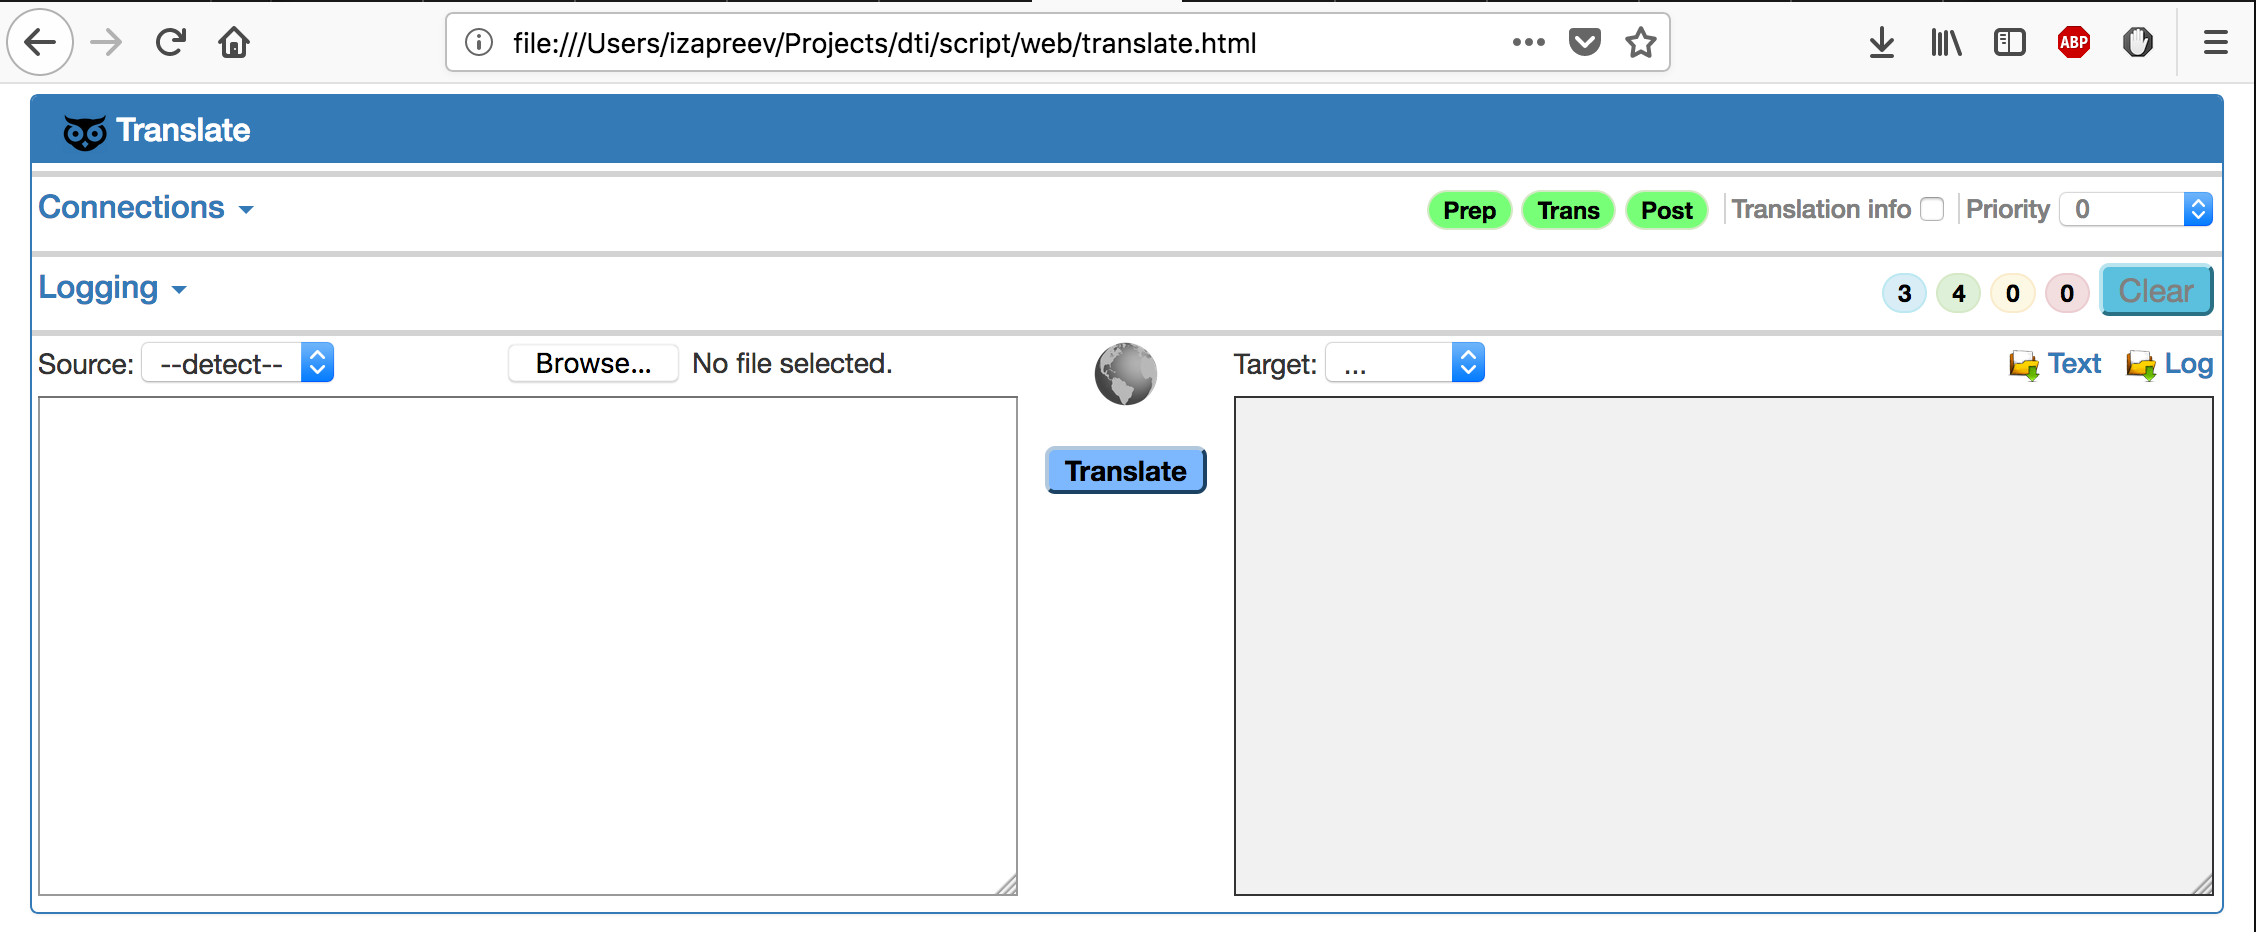
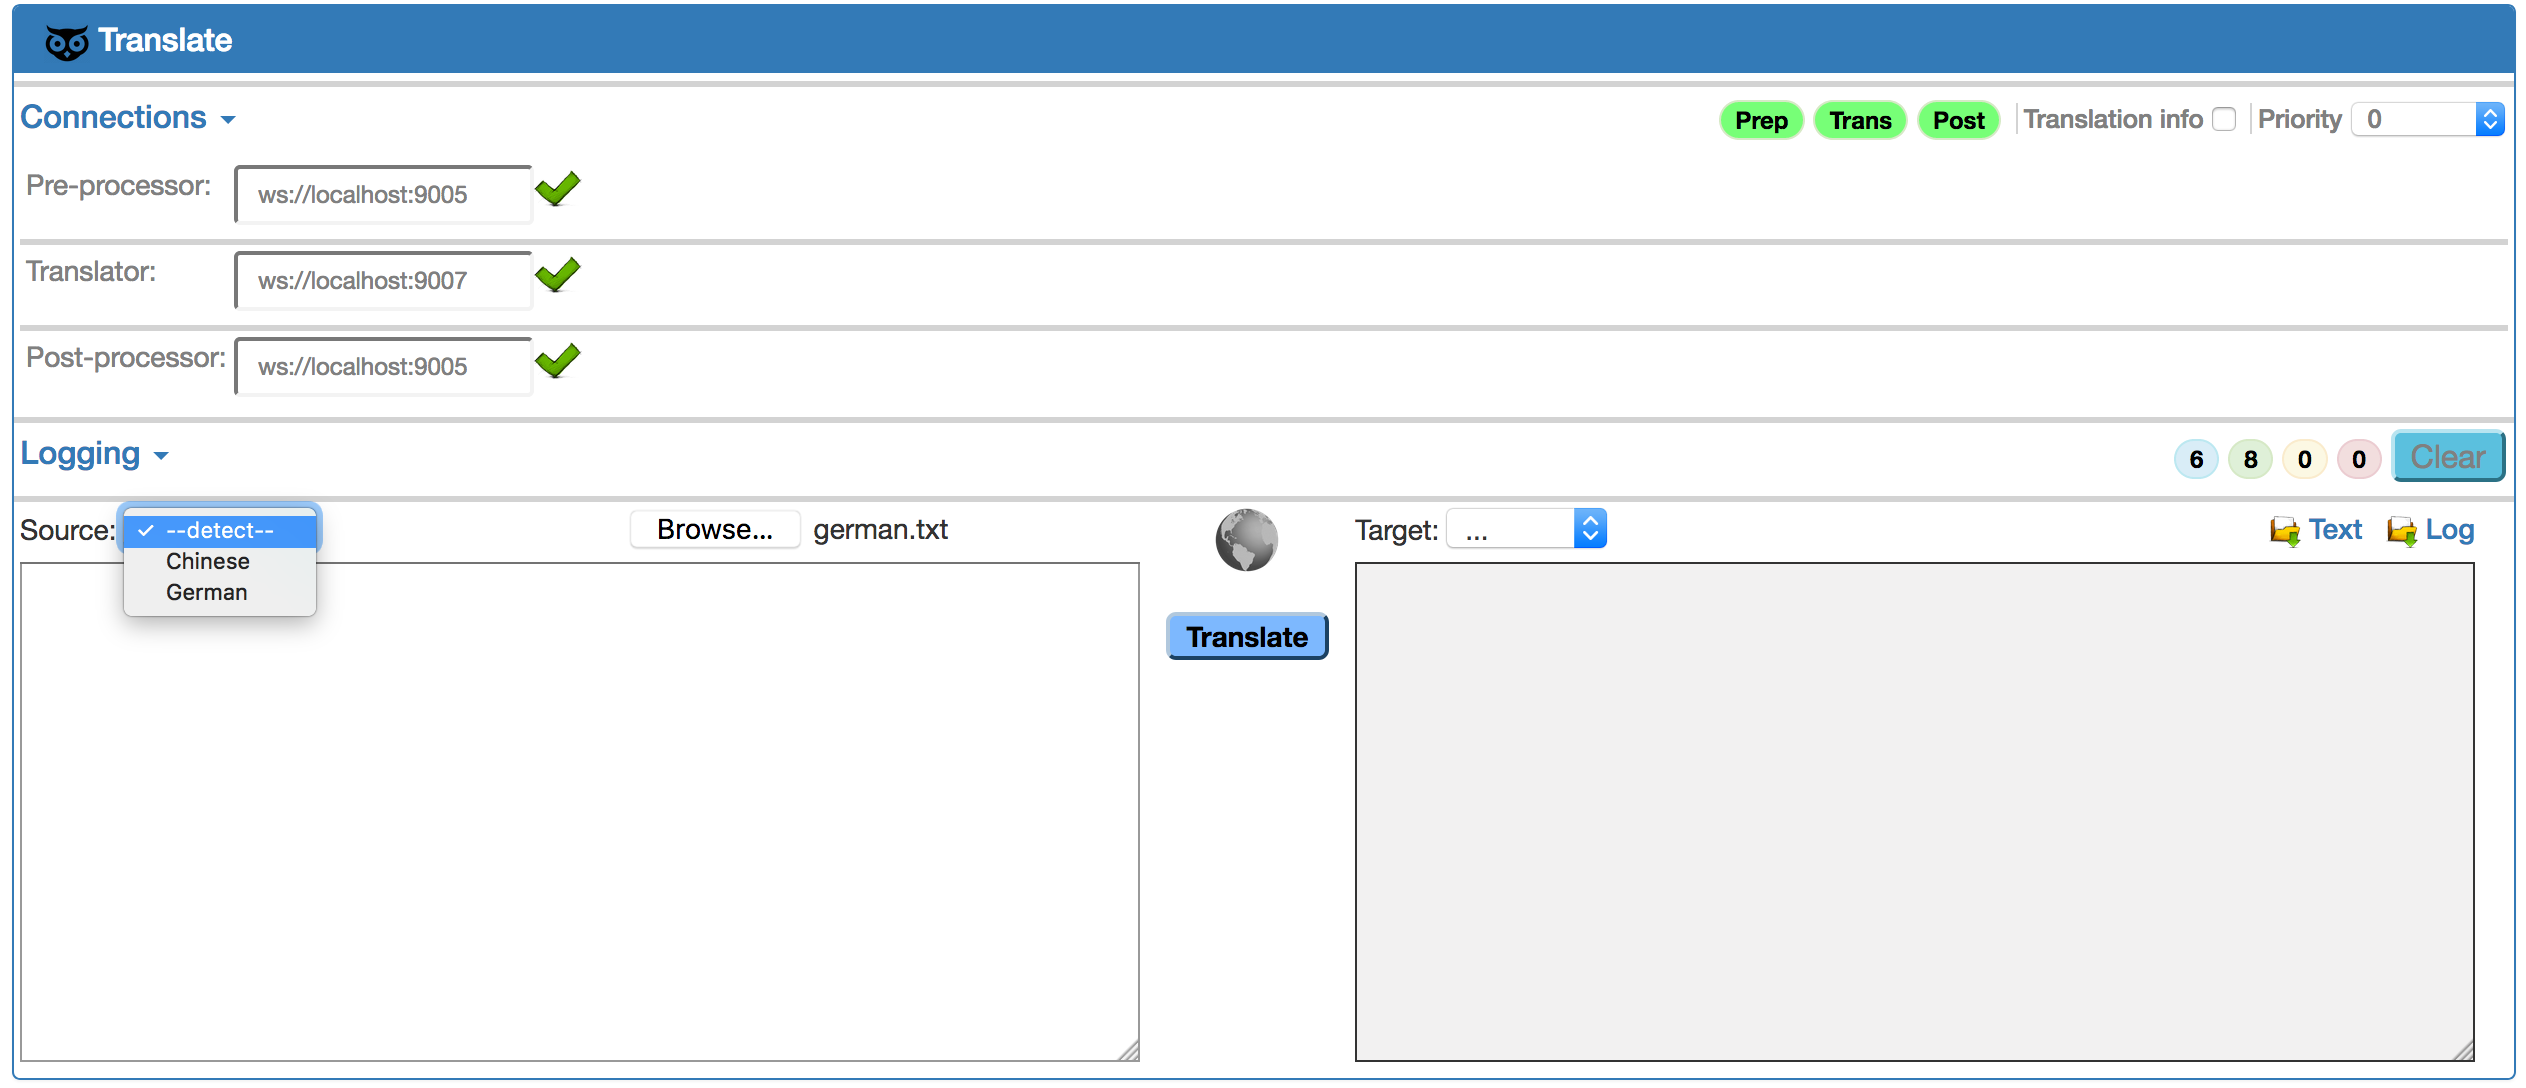
Finishing the initial documentation version of the TLS and no-TLS demos

Changed region(s): [[0.0, 0.0, 1.0, 1.0], [0.4344, 0.5601, 0.5275, 0.6223]]

diff --git a/demo/tls/README.md b/demo/tls/README.md
@@ -16,6 +16,7 @@ Relative to the [Distributed Translation Infrastructure](https://github.com/ivan
 
 ```
 $ tree .
+.
 ├── README.md
 ├── certificates
 │   ├── ca2048.crt
@@ -37,10 +38,19 @@ $ tree .
 │   ├── server-no-tls.cfg
 │   └── server-tls.cfg
 ├── imgs
-│   ├── browser_connected.png
-│   ├── browser_exceptions.png
+│   ├── browser_connected_01.png
+│   ├── browser_connected_02.png
+│   ├── browser_connected_03.png
+│   ├── browser_connected_04.png
+│   ├── browser_connected_05.png
+│   ├── browser_connected_06.png
+│   ├── browser_exception_01.png
+│   ├── browser_exception_02.png
+│   ├── browser_exception_03.png
+│   ├── browser_exception_04.png
 │   ├── browser_initial.png
-│   └── browser_resulting.png
+│   ├── browser_resulting_ch.png
+│   └── browser_resulting_de.png
 ├── models
 │   ├── chinese.english.head.10.rm.zip
 │   ├── chinese.english.head.10.tm.zip
@@ -75,7 +85,7 @@ In order to run this demo one requires [OpenSSL](https://www.openssl.org/) insta
 
 All the servers are run on localhost but use different ports. The following deployment is ensured by the corresponding configuration files:
 
-- **ws://localhost:9001** - `bpbd-server -c ./configs/server-tls.cfg` translating *Chinese* to * English*;
+- **wws://localhost:9001** - `bpbd-server -c ./configs/server-tls.cfg` translating *Chinese* to *English*;
 - **ws://localhost:9002** - `bpbd-server -c ./configs/server-no-tls.cfg` translating *German* to *English*;
 - **wws://localhost:9003** - `bpbd-processor -c./configs/processor-tls.cfg` performs both *pre-* and *post-* processing;
 - **ws://localhost:9004** - `bpbd-processor -c./configs/processor-no-tls.cfg` performs both *pre-* and *post-* processing;
@@ -123,6 +133,8 @@ INFO: Please press enter to STOP the servers and finish...
 After these steps are done the console and web clients may be run. The exact steps for doing these are given in the subsections below. To terminate the servers infrastructure and finish the demo:
 
 * Return to the terminal running the `./start.sh` script and press **Enter**;
+
+The next subsections assume the servers infrastructure running.
 
 ### Running Console client
 
@@ -175,27 +187,69 @@ Note that the balancing server, running on port *9005*, can only be reached via 
 
 ### Running Web client
 
-**ToDo:** Re-write this section.
+In order to run the Web-client demo the following steps are to be taken:
 
-* Open the `<DTI_HOME>/script/web/translate.html` document in one of the web-browsers: 
+* Make sure to add security exceptions for the TLS servers. This is requires as the TLS servers use self-signed certificates. The exceptions are to be added for:
+   * `https://localhost:9001` - the TLS translation server
+   * `https://localhost:9003` - the TLS pre/post processor
+   * `https://localhost:9005` - the TLS load balancer
+* Let us use `https://localhost:9001` as an example but make sure you do the same for the other two servers as well!
+* The example of adding security exception is done in Firefox, but doing this in Internet Explorer, Safari, Chrome or Opera requires a similar process.
+* Open your favorite web-browser and navigate to `https://localhost:9001`. The initial page you should get, if the server is fully started, is:
+
+![Adding security exception, step 1](./imgs/browser_exception_01.png "Adding security exception, step 1")
+
+* Click on the **Advanced** button to get to see the **Add Exceptions** button:
+
+![Adding security exception, step 2](./imgs/browser_exception_02.png "Adding security exception, step 2")
+
+* Click on the **Add Exceptions** button to see the exception-adding dialog:
+
+![Adding security exception, step 3](./imgs/browser_exception_03.png "Adding security exception, step 3")
+
+* Make sure that the **Permanently store this exception** check box is selected and click on the **Confirm Security Exception** button, to get to see:
+
+![Adding security exception, step 4](./imgs/browser_exception_04.png "Adding security exception, step 4")
+
+* After all three security exceptions are added, open the `<DTI_HOME>/script/web/translate.html` document in the web-browsers:
 
 ![The initial browser state](./imgs/browser_initial.png "The initial browser state")
 
-* Note that the **Pre**, **Trans**, and **Post** connection indicators are all red, meaning the servers are not running;
-* Open the Linux terminal and change directory to the `<DTI_HOME>/demo/tls/` folder;
+* Note that the server configuration will most likely be as in the figure above and the **Pre**, **Trans**, and **Post** connection indicators will all  be red, meaning the servers are not connected;
+* Change the server configuration to the one depicted in the next figure. Here, we use TLS *pre* and *post* processor servers as well as the TLS load balancer, aggregating two different source language translation servers:
 
-* Keep refreshing the `<DTI_HOME>/script/web/translate.html` page in the browser, until it is in the following state:
+![The connected browser state](./imgs/browser_connected_01.png "The connected browser state")
 
-![The connected browser state](./imgs/browser_connected.png "The connected browser state")
-
-* Please note that here:
-    * Getting this state shall not take longer than several minutes;
-    * The **Pre**, **Trans**, and **Post** connection indicators will become green;
-    * The **Source** language will be set to `--detect--`;
-* Copy the content of the `<DTI_HOME>/demo/tls/test/chinese.txt` file into the **Source** text box of the `<DTI_HOME>/script/web/translate.html` document inside the browser;
-* Select the **Source** language to be *Chinese* and click the **Translate** button;
+* To ensure that this configuration works:
+    * Load `<DTI_HOME>/demo/no-tls/test/chinese.txt` as the **Source** text;
+    * Select the **Source** language to be *Chinese* and click the **Translate** button;
 * Wait until the translation process is finished, the resulting state shall be as follows:
 
-![The resulting browser state](./imgs/browser_resulting.png "The resulting browser state")
+![The resulting browser state, Chinese](./imgs/browser_resulting_ch.png "The resulting browser state, Chinese")
 
-* You may want compare the translation result to that stored in  `<DTI_HOME>/demo/tls/test/english.txt` and obtained using full-scale models;
+* You may want compare the translation result to that stored in `<DTI_HOME>/demo/tls/test/english.txt` and obtained using full-scale models;
+
+* The other server connection configurations you may want to try out to validate that they are all possible and work, are as follows:
+    * TLS *pre*-processor, Non-TLS translation server, TLS *post*-processor:
+
+![The connected browser state](./imgs/browser_connected_02.png "The connected browser state")
+
+   * TLS *pre*-processor, TLS translation server, TLS *post*-processor:
+
+![The connected browser state](./imgs/browser_connected_03.png "The connected browser state")
+
+   * Non-TLS *pre*-processor, TLS translation server, TLS *post*-processor:
+
+![The connected browser state](./imgs/browser_connected_04.png "The connected browser state")
+
+   * Non-TLS *pre*-processor, TLS translation server, Non-TLS *post*-processor:
+
+![The connected browser state](./imgs/browser_connected_05.png "The connected browser state")
+
+   * Non-TLS *pre*-processor, Non-TLS translation server, Non-TLS *post*-processor:
+
+![The connected browser state](./imgs/browser_connected_06.png "The connected browser state")
+
+* Please note that *German* to *English* translation of `<DTI_HOME>/demo/tls/test/german.txt`, given that dummy pre and post processing scripts and minimal size models are used, will not actually be able to translate anything:
+
+![The resulting browser state, German](./imgs/browser_resulting_de.png "The resulting browser state, German")

diff --git a/demo/no-tls/README.md b/demo/no-tls/README.md
@@ -28,13 +28,20 @@ $ tree .
 ├── imgs
 │   ├── browser_connected.png
 │   ├── browser_initial.png
-│   └── browser_resulting.png
+│   ├── browser_resulting_ch.png
+│   └── browser_resulting_de.png
 ├── models
+│   ├── chinese.english.head.10.rm
 │   ├── chinese.english.head.10.rm.zip
+│   ├── chinese.english.head.10.tm
 │   ├── chinese.english.head.10.tm.zip
+│   ├── de-en-1-10.000.rm
 │   ├── de-en-1-10.000.rm.zip
+│   ├── de-en-1-10.000.tm
 │   ├── de-en-1-10.000.tm.zip
+│   ├── e_00_1000.lm
 │   ├── e_00_1000.lm.zip
+│   ├── english.bitext.lm
 │   ├── english.bitext.lm.zip.aa
 │   ├── english.bitext.lm.zip.ab
 │   └── english.bitext.lm.zip.ac
@@ -110,12 +117,16 @@ INFO: Please press enter to STOP the servers and finish...
 * Please note that here:
     * Getting this state shall not take longer than several minutes;
     * The **Pre**, **Trans**, and **Post** connection indicators will become green;
-    * The **Source** language will be set to `--detect--`;
-* Copy the content of the `<DTI_HOME>/demo/no-tls/test/chinese.txt` file into the **Source** text box of the `<DTI_HOME>/script/web/translate.html` document inside the browser;
+    * The **Source** language will be set to `--detect--` as there are several source languages available;
+* Load the content of the `<DTI_HOME>/demo/no-tls/test/chinese.txt` file into the **Source** text box of the `<DTI_HOME>/script/web/translate.html` document inside the browser;
 * Select the **Source** language to be *Chinese* and click the **Translate** button;
 * Wait until the translation process is finished, the resulting state shall be as follows:
 
-![The resulting browser state](./imgs/browser_resulting.png "The resulting browser state")
+![The resulting browser state, Chinese](./imgs/browser_resulting_ch.png "The resulting browser state, Chinese")
 
 * You may want compare the translation result to that stored in  `<DTI_HOME>/demo/no-tls/test/english.txt` and obtained using full-scale models;
+* Please note that *German* to *English* translation of `<DTI_HOME>/demo/no-tls/test/german.txt`, given that dummy pre and post processing scripts and minimal size models are used, will not actually be able to translate anything:
+
+![The resulting browser state, German](./imgs/browser_resulting_de.png "The resulting browser state, German")
+
 * Return to the terminal running the `./start.sh` script and press **Enter** to terminate the servers and finish the demo;
